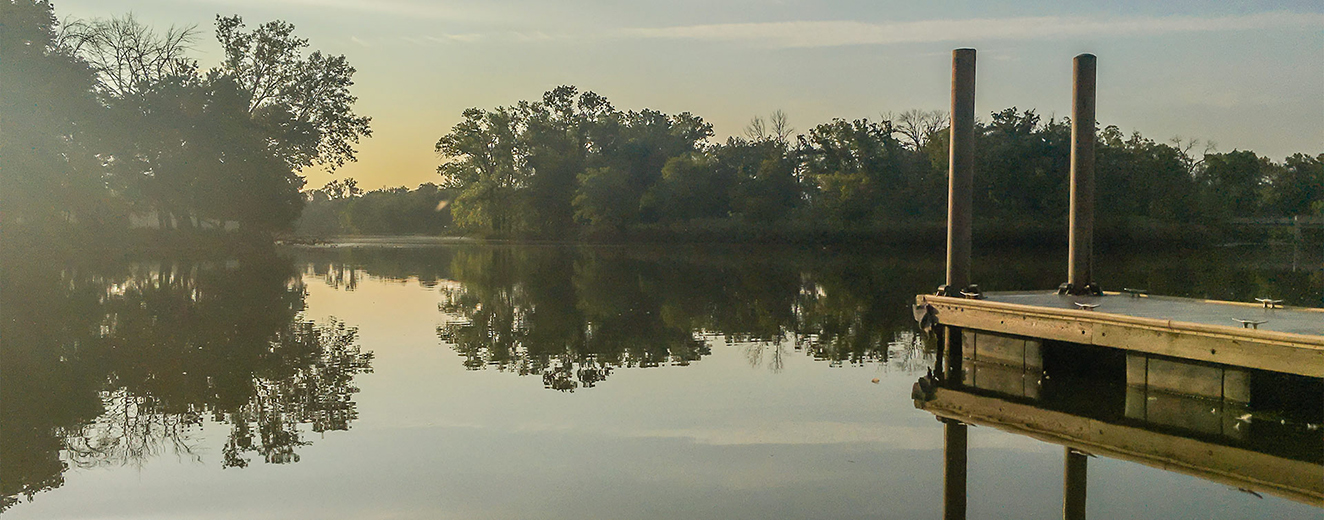
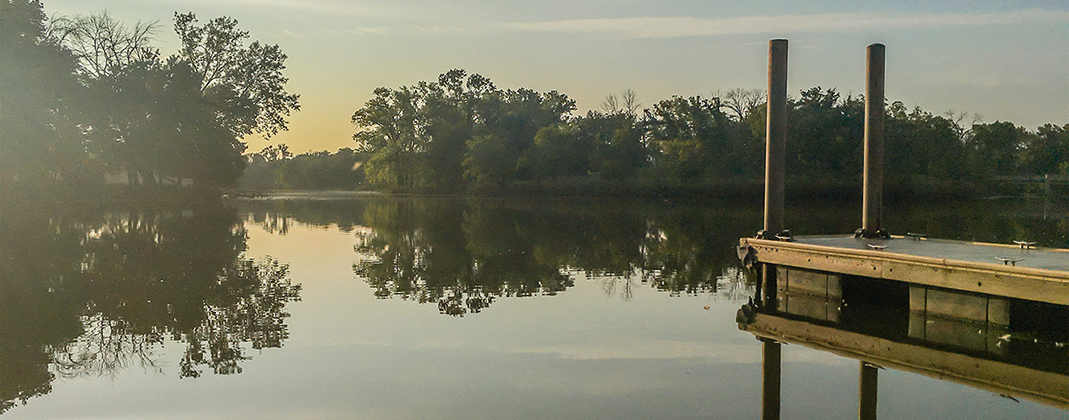
adjust slider

diff --git a/Brief Projet Niv03 - Developpement d'un site Webagency/Website/css/style.css b/Brief Projet Niv03 - Developpement d'un site Webagency/Website/css/style.css
@@ -4,8 +4,16 @@ body{
     height: 100%;
     width: 100%;
     font-family: 'Roboto Condensed', sans-serif;
-    color: #0d7ae7;
-    
+}
+
+/* Bootstrap Padding Fix */
+[class*="col-"]{
+    padding: 1rem;
+}
+
+.btn-primary{
+    background-color: #34c6d3 !important;
+    border: 1px solid #64707b !important;
 }
 
 .navbar{
@@ -16,33 +24,22 @@ body{
     padding-right: 2px;
 }
 
-/* .nav-link{
-    font-size: 1.1em !important;
-} */
-
+/* Home Slider */
 .carousel-inner img{
     width: 100%;
-    height: auto;
+    height: 10%;
 }
 
 .carousel-caption{
-    position: absolute;
-    top: 50%;
-    transform: translateY(-50);
+    top: 40%;
 }
 
-/* Bootstrap Padding Fix */
-[class*="col-"]{
-    padding: 1rem;
-}
-body{
-    font-family: 'Roboto Slab', serif;
-}
 hr{
     size: 90px;
     width: 20px;
     background-color:red;
 }
+
 #btn1{
-    background-color: royalblue;
+    background-color: #34c6d3;
 }

diff --git a/Brief Projet Niv03 - Developpement d'un site Webagency/Website/index.html b/Brief Projet Niv03 - Developpement d'un site Webagency/Website/index.html
@@ -99,7 +99,7 @@
     </section>
 
     <!-- Services Section -->
-    <section id="sections">
+    <section id="services">
 
     </section>
 
